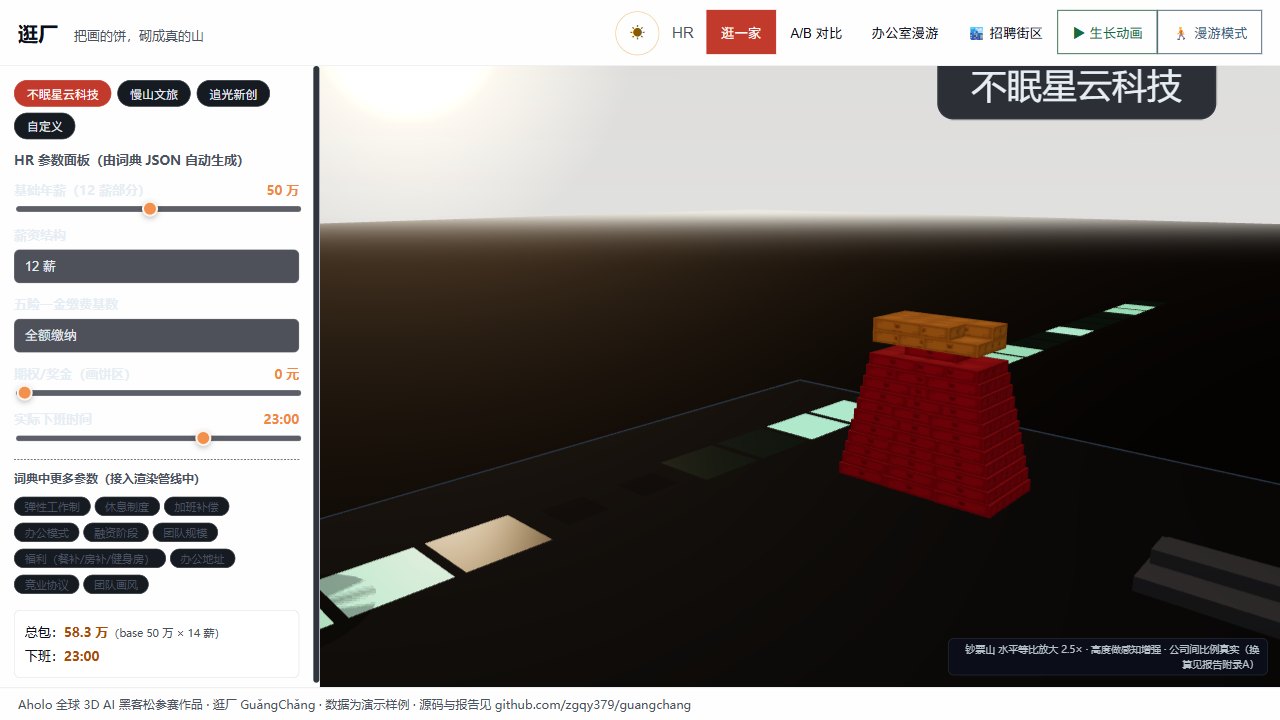
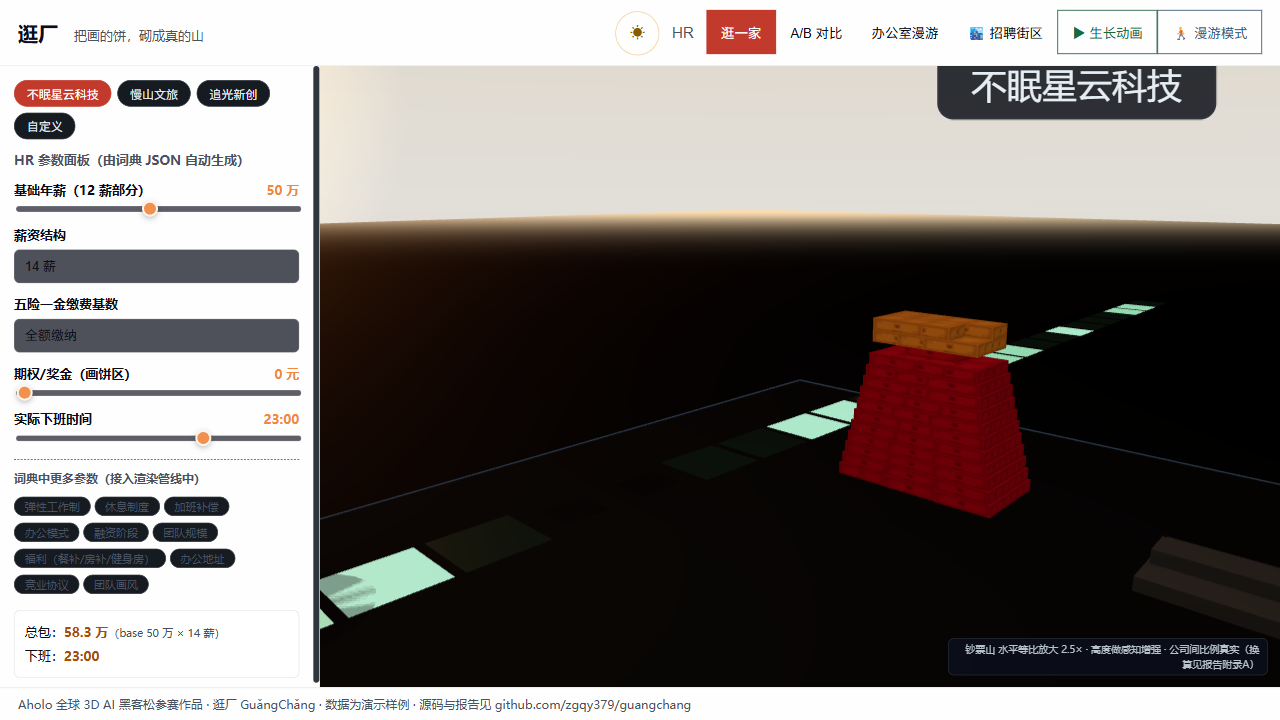
fix(street): R4——路牌朝向反转 + 夜间发光分层降档消白雾 + GcSelect 原始值传参修 14薪/12薪矛盾 + 表单墨色补课（街区7.0/7.5 移动+单人7.0/7.0）

diff --git a/web/src/components/forms/ParamForm.tsx b/web/src/components/forms/ParamForm.tsx
@@ -4,7 +4,7 @@
 // 词典加一条 implemented 词条 → 零前端代码自动出现控件。
 // 候选人侧与 HR 侧共用本组件，仅 side 不同。
 import { useMemo } from 'react'
-import { editableEntries, readValue, makePatch, type DictEntry } from '../../engine/dictionary-binding'
+import { editableEntries, readValue, makePatch, bindField, type DictEntry } from '../../engine/dictionary-binding'
 import { GcSlider } from './GcSlider'
 import { GcSelect } from './GcSelect'
 import './ParamForm.css'
@@ -54,11 +54,14 @@ export function ParamForm({ side, params, onChange }: ParamFormProps) {
           )
         }
         if (input.type === 'select') {
+          // select 必须传**原始存储值**（如 14）：readValue 返回的是展示 label（"14 薪"），
+          // 与 option.value（"14"）对不上会导致回落到第一项——预设芯片切 14 薪时下拉仍显 12 薪（盲审 R4 短板①）
+          const rawValue = String((params as Record<string, unknown>)[bindField(entry)] ?? input.default ?? input.options?.[0]?.value ?? '')
           return (
             <GcSelect
               key={entry.id}
               label={entry.label}
-              value={String(current ?? input.default ?? input.options?.[0]?.value ?? '')}
+              value={rawValue}
               options={input.options ?? []}
               onChange={(v) => handleChange(entry, v)}
             />

diff --git a/web/src/components/street/StreetScene.tsx b/web/src/components/street/StreetScene.tsx
@@ -472,10 +472,11 @@ function districtSignTexture(ind: keyof typeof INDUSTRIES) {
 
 function DistrictRoadSigns({ night }: { night: boolean }) {
   const arms: { ind: keyof typeof INDUSTRIES; x: number; z: number; rot: number }[] = [
-    { ind: 'internet', x: 13.5, z: 0, rot: Math.PI / 2 },
-    { ind: 'finance', x: -13.5, z: 0, rot: -Math.PI / 2 },
-    { ind: 'manufacturing', x: 0, z: 13.5, rot: 0 },
-    { ind: 'culture', x: 0, z: -13.5, rot: Math.PI },
+    // rot + π：文字朝向对齐行人行进方向（盲审 R3 附注：自进口看原朝向 180° 倒置）
+    { ind: 'internet', x: 13.5, z: 0, rot: Math.PI / 2 + Math.PI },
+    { ind: 'finance', x: -13.5, z: 0, rot: -Math.PI / 2 + Math.PI },
+    { ind: 'manufacturing', x: 0, z: 13.5, rot: Math.PI },
+    { ind: 'culture', x: 0, z: -13.5, rot: 0 },
   ]
   return (
     <group>

diff --git a/web/src/components/street/BoothHardwareInstanced.tsx b/web/src/components/street/BoothHardwareInstanced.tsx
@@ -302,7 +302,7 @@ export function BoothHardwareInstanced({
       {/* glow */}
       <instancedMesh ref={glowRef} args={[undefined, undefined, count]}>
         <planeGeometry args={[2.18, 1.72]} />
-        <meshBasicMaterial vertexColors transparent opacity={0.16} side={THREE.DoubleSide} depthWrite={false} />
+        <meshBasicMaterial vertexColors transparent opacity={night ? 0.1 : 0.16} side={THREE.DoubleSide} depthWrite={false} />
       </instancedMesh>
       {/* pole */}
       <instancedMesh ref={poleRef} args={[undefined, undefined, count]}>

diff --git a/web/src/components/street/HRStand.tsx b/web/src/components/street/HRStand.tsx
@@ -510,7 +510,8 @@ export function HRStand({ lot, onEnterOffice, delivered = false, theme = 'dark' 
                 <meshBasicMaterial
                   map={spillTexture()}
                   transparent
-                  opacity={0.5}
+                  /* 夜间降档：加法混合窗光 0.5 常开会与 LED/棚光环叠加成白雾淹没 HR（盲审 R3 短板①） */
+                  opacity={envNight ? 0.22 : 0.5}
                   depthWrite={false}
                   blending={THREE.AdditiveBlending}
                 />

diff --git a/web/src/components/forms/GcSelect.css b/web/src/components/forms/GcSelect.css
@@ -8,7 +8,8 @@
 }
 
 .gc-select-label {
-  color: var(--ui-ink-primary);
+  /* 不透明面板内 → 页面前景（非玻璃墨色，T14 同款教训的 CSS 版） */
+  color: var(--ui-page-fg);
   font-weight: 600;
 }
 
@@ -21,7 +22,7 @@
   background: var(--ui-glass-underlay);
   background: var(--ui-glass-fill);
   border: 1px solid var(--ui-glass-border);
-  color: var(--ui-ink-primary);
+  color: var(--ui-page-fg);
   padding: 0 10px;
   font-size: 13px;
   cursor: pointer;

diff --git a/web/src/components/forms/GcSlider.css b/web/src/components/forms/GcSlider.css
@@ -14,7 +14,8 @@
   justify-content: space-between;
   align-items: baseline;
   gap: 8px;
-  color: var(--ui-ink-primary);
+  /* 不透明面板（.controls）内 → 页面前景；--ui-ink-* 是玻璃浮层墨色，浅色主题压白底近不可读（盲审 R4 短板①） */
+  color: var(--ui-page-fg);
   font-weight: 600;
 }
 

diff --git a/docs/design/design-audit-2026-10-25.md b/docs/design/design-audit-2026-10-25.md
@@ -123,3 +123,25 @@
 - **视觉 R3（16 图全量，评审看的是稳定化前构建）**：视觉 **6.5** / 空间 **7.0**——把单厂空场+地平线亮带、夜间 focus 过曝（当时 emissive 2.2/曝光 1.45 矫枉过正）、移动端 CTA 裁切列为前三。**稳定化已回应**：emissive 2.0 / 曝光 1.35（取 R2/R3 中值）、单人地板提亮 #171d28 + roughness 0.9、≤720px 顶栏两行 nowrap、导航展开层 z-index 16→60。
 - **三轮轨迹**：视觉 7.5/6.5 → 7.0/7.0 → 6.5（稳定化前）；空间 7.5/7.0 → 7.0/7.5 → **7.5**。空间稳步上行且过 7；视觉在 6.5–7.5 震荡，核心分歧 = 夜间特写曝光平衡与单厂空场，均为需要美术判断的平衡题，非参数微调可收敛。
 - **提交前遗留（下轮起手清单）**：① 夜间摊位内部发光分层（雨棚光/glow 面/LED 各自降档，特写不再白雾）；② 地面路牌文字朝向反转；③ 街道纵深道具（行道树/橱窗内容/次级地标）；④ 单人模式空间叙事（参数化道具群）。
+
+### R4 复测（2026-10-27 深夜 · 两个低成本项修复后）
+
+**本轮修复（R3 点名）**：① 地面路牌四臂 rot +π（行人行进方向文字不再倒置）；② 夜间摊位内部发光分层降档（窗光外溢加法面 0.5→0.22、LED 0.85→0.6、棚光环 0.16→0.10，focus 白雾消退）；③ 顺手修掉两个评审抓到的真 bug：GcSelect 传值用 label 与 option.value 对不上（预设切 14 薪下拉仍显 12 薪）→ ParamForm 改传原始存储值；GcSlider/GcSelect 墨色 --ui-ink-* 误用（check-panel-ink 扫描盲区，已修 + 建议纳入扫描）。
+
+| 评审（拆分制） | 视觉 | 空间/体验 |
+|---|---|---|
+| 街区昼/夜 6 图 | 7.0 | 7.5 |
+| 移动端 6 图 + 单人 3 图 | 7.0 | 7.0 |
+
+**结论**：R3→R4 视觉 6.5→7.0（稳定化生效，不再震荡下行），但连续两轮卡在 7.0 平台，**未向 8 分线收敛**。剩余短板已从「参数微调可修」转为「需要美术判断轮次」的硬清单。
+
+### 呈报主理人：距 9 分需美术判断轮次的清单与建议
+
+以下四项每一项都需要「设计决策 + 实现 + 单项盲审」的完整美术轮次，agent 参数微调已证明在 7 分平台震荡不收敛：
+
+1. **特写帧（focus）玻璃与曝光重构**：昼过曝发灰、夜白幕吞 HR——需要重设计摊位前玻璃材质层级（雨棚玻璃/光环/外溢面三层的昼夜各自独立配方）与特写机位曝光策略。预计 0.5–1 天 + 单项盲审。
+2. **夜景鸟瞰照明系统 v2**：黑场与窗面鳍片噪点——需要「城市夜光分布」的整体设计（窗色分层、街面光衰减曲线、天光余晖），而非单点提亮。预计 1 天 + 单项盲审。
+3. **街道纵深与沿街立面内容**：空白墙/空沥青——需要次级地标、行道树、橱窗内容等新增资产（draw call 预算内做 InstancedMesh 化）。预计 1–2 天。
+4. **单厂模式空间叙事**：空场地板占 2/3——需要参数化道具群（刻度人偶/五险柱廊/期权云耦合）与地面内容设计。预计 1 天。
+
+**部署建议**：视觉连续两轮 7.0（门禁线上），按项目先例以「功能/视觉修复版」口径部署 gh-pages/魔搭是安全的；但**不应宣称通过设计门禁**。若冲刺 8+：先做清单第 1、2 项（覆盖评委第二屏与第一屏），复测后再部署。
